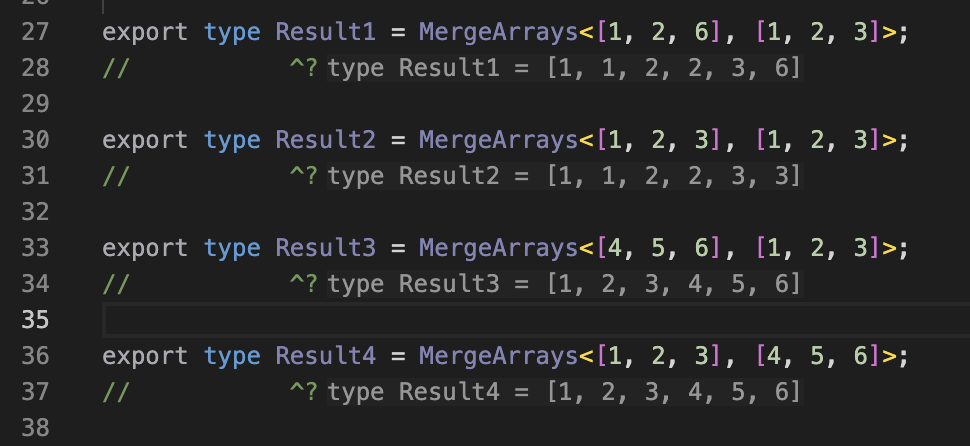
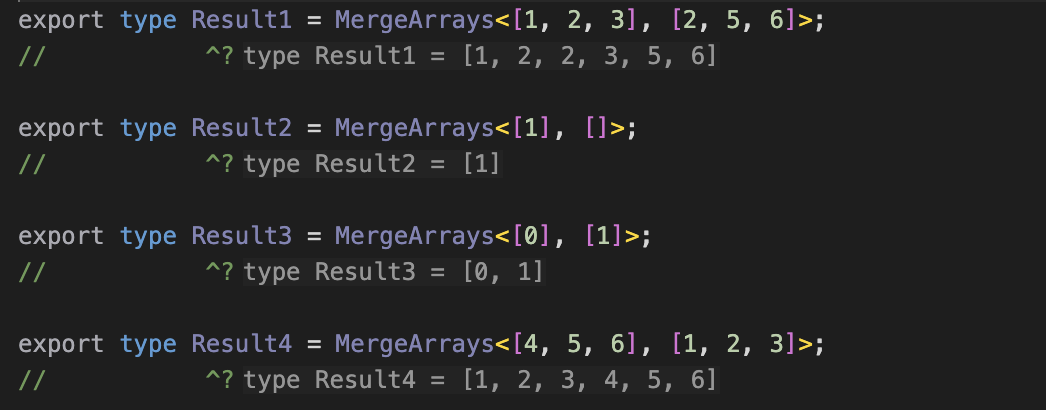
stock trading

diff --git a/problems/best-time-to-buy-and-sell-stock/index.ts b/problems/best-time-to-buy-and-sell-stock/index.ts
@@ -1,0 +1,27 @@
+import type { IsGreaterThan, IsLowerThan, Sum, Negate } from "type-samurai";
+
+type Minus<A extends number, B extends number> = Sum<A, Negate<B>>;
+
+type MaxProfit<
+  Prices extends number[],
+  Profit extends number = 0,
+  MinPrice extends number = 10e4
+> = Prices extends [infer Head, ...infer Tail]
+  ? Head extends number
+    ? MinPrice extends number
+      ? Tail extends number[]
+        ? IsLowerThan<Head, MinPrice> extends true
+          ? MaxProfit<Tail, Profit, Head>
+          : IsGreaterThan<Minus<Head, MinPrice>, Profit> extends true
+          ? MaxProfit<Tail, Minus<Head, MinPrice>, MinPrice>
+          : MaxProfit<Tail, Profit, MinPrice>
+        : never
+      : never
+    : never
+  : Profit;
+
+export type Result1 = MaxProfit<[7, 1, 5, 3, 6, 4]>;
+//           ^?
+
+export type Result2 = MaxProfit<[7, 6, 4, 3, 1]>;
+//           ^?

diff --git a/problems/remove-element/index.ts b/problems/remove-element/index.ts
@@ -11,17 +11,8 @@ type RemoveElement<Arr extends number[], Ele extends number> = Arr extends [
     : never
   : [];
 
-export type Result1 = RemoveElement<[1, 2, 6, 1], 1>;
+export type Result1 = RemoveElement<[3, 2, 2, 3], 3>;
 //           ^?
 
-export type Result2 = RemoveElement<[1, 1, 2, 3], 1>;
-//           ^?
-
-export type Result3 = RemoveElement<[1, 1, 1], 1>;
-//           ^?
-
-export type Result4 = RemoveElement<[1, 2, 3], 2>;
-//           ^?
-
-export type Result5 = RemoveElement<[1, 1, 1], 2>;
+export type Result2 = RemoveElement<[0, 1, 2, 2, 3, 0, 4, 2], 2>;
 //           ^?

diff --git a/problems/merge-sorted-array/index.ts b/problems/merge-sorted-array/index.ts
@@ -24,14 +24,14 @@ type MergeArrays<
   ? [...R, ...B]
   : never;
 
-export type Result1 = MergeArrays<[1, 2, 6], [1, 2, 3]>;
+export type Result1 = MergeArrays<[1, 2, 3], [2, 5, 6]>;
 //           ^?
 
-export type Result2 = MergeArrays<[1, 2, 3], [1, 2, 3]>;
+export type Result2 = MergeArrays<[1], []>;
 //           ^?
 
-export type Result3 = MergeArrays<[4, 5, 6], [1, 2, 3]>;
+export type Result3 = MergeArrays<[0], [1]>;
 //           ^?
 
-export type Result4 = MergeArrays<[1, 2, 3], [4, 5, 6]>;
+export type Result4 = MergeArrays<[4, 5, 6], [1, 2, 3]>;
 //           ^?

diff --git a/problems/merge-sorted-array/README.md b/problems/merge-sorted-array/README.md
@@ -1,5 +1,5 @@
 # Merge Sorted Arrays
 
-**Problem Description:** https://leetcode.com/problems/merge-sorted-array/description/
+**Problem Description:** https://leetcode.com/problems/merge-sorted-array/
 
 <img src="./result.png" />

diff --git a/problems/remove-element/README.md b/problems/remove-element/README.md
@@ -1,5 +1,5 @@
 # Remove Element
 
-**Problem Description:** https://leetcode.com/problems/remove-element/description/
+**Problem Description:** https://leetcode.com/problems/remove-element/
 
 <img src="./result.png" />
